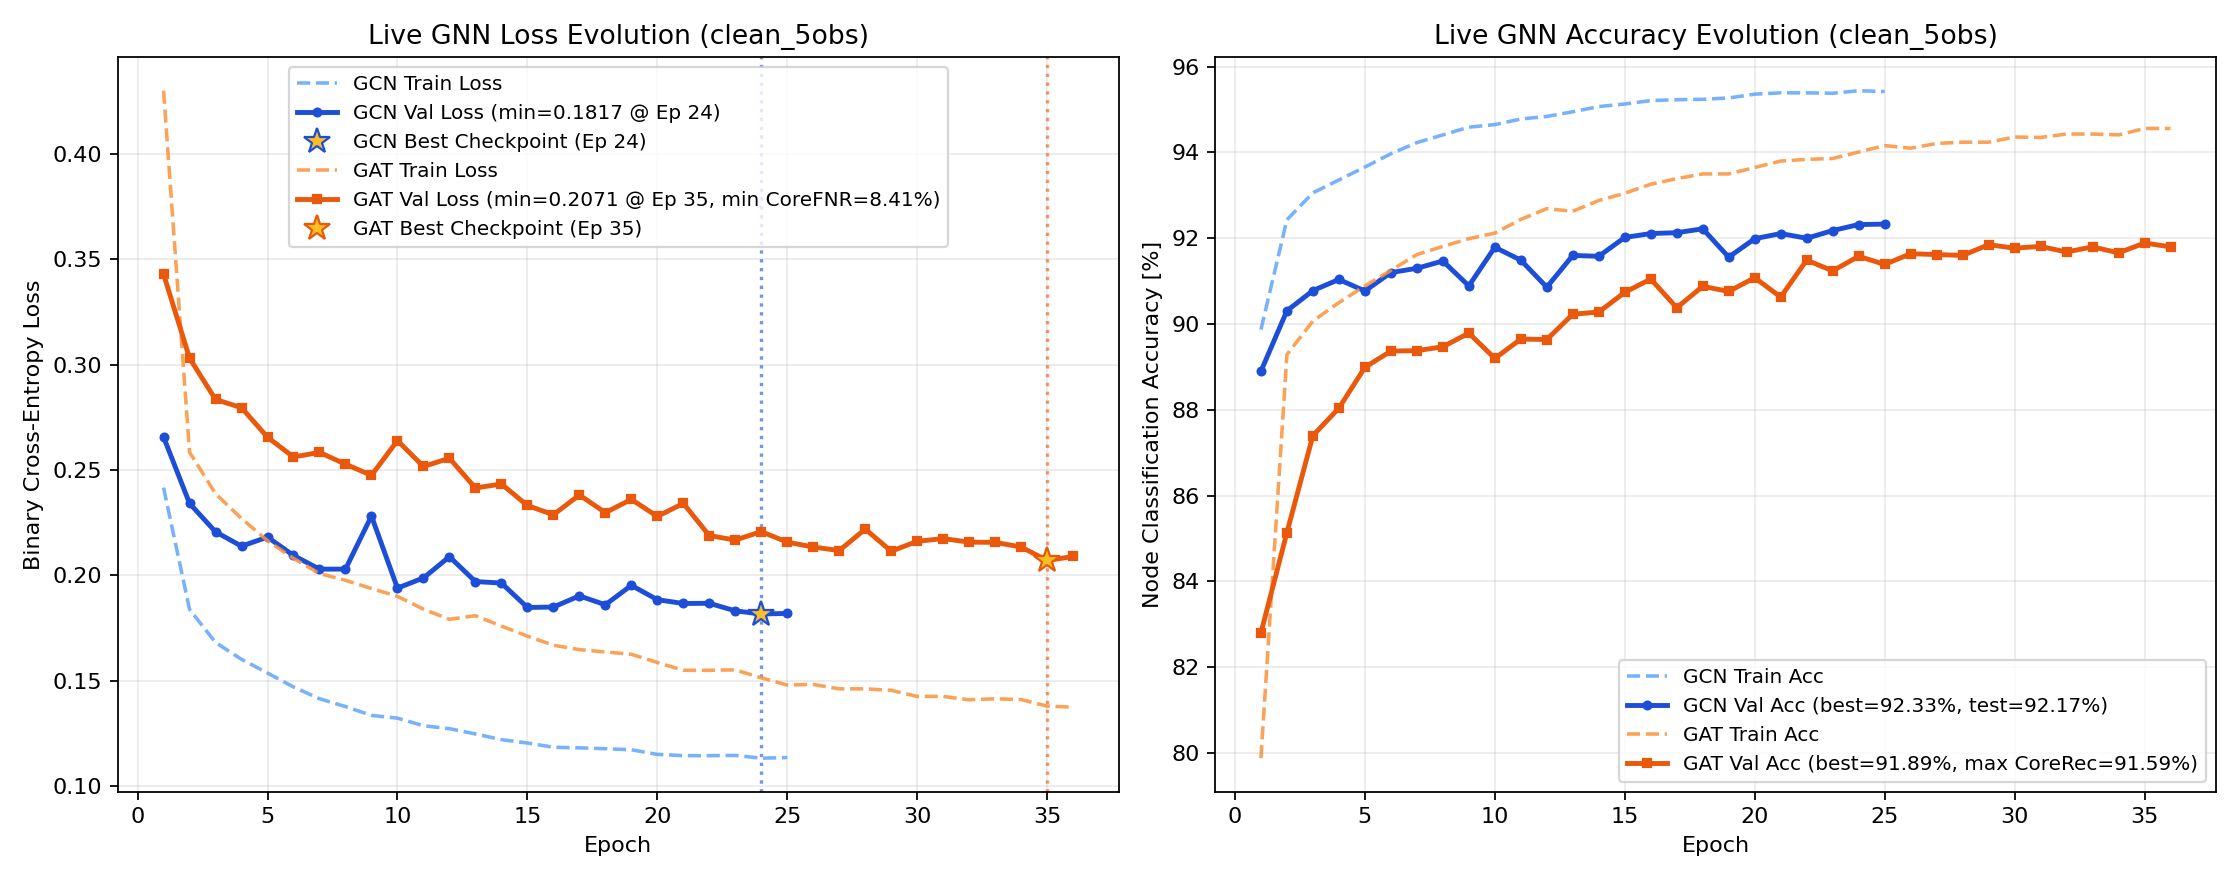
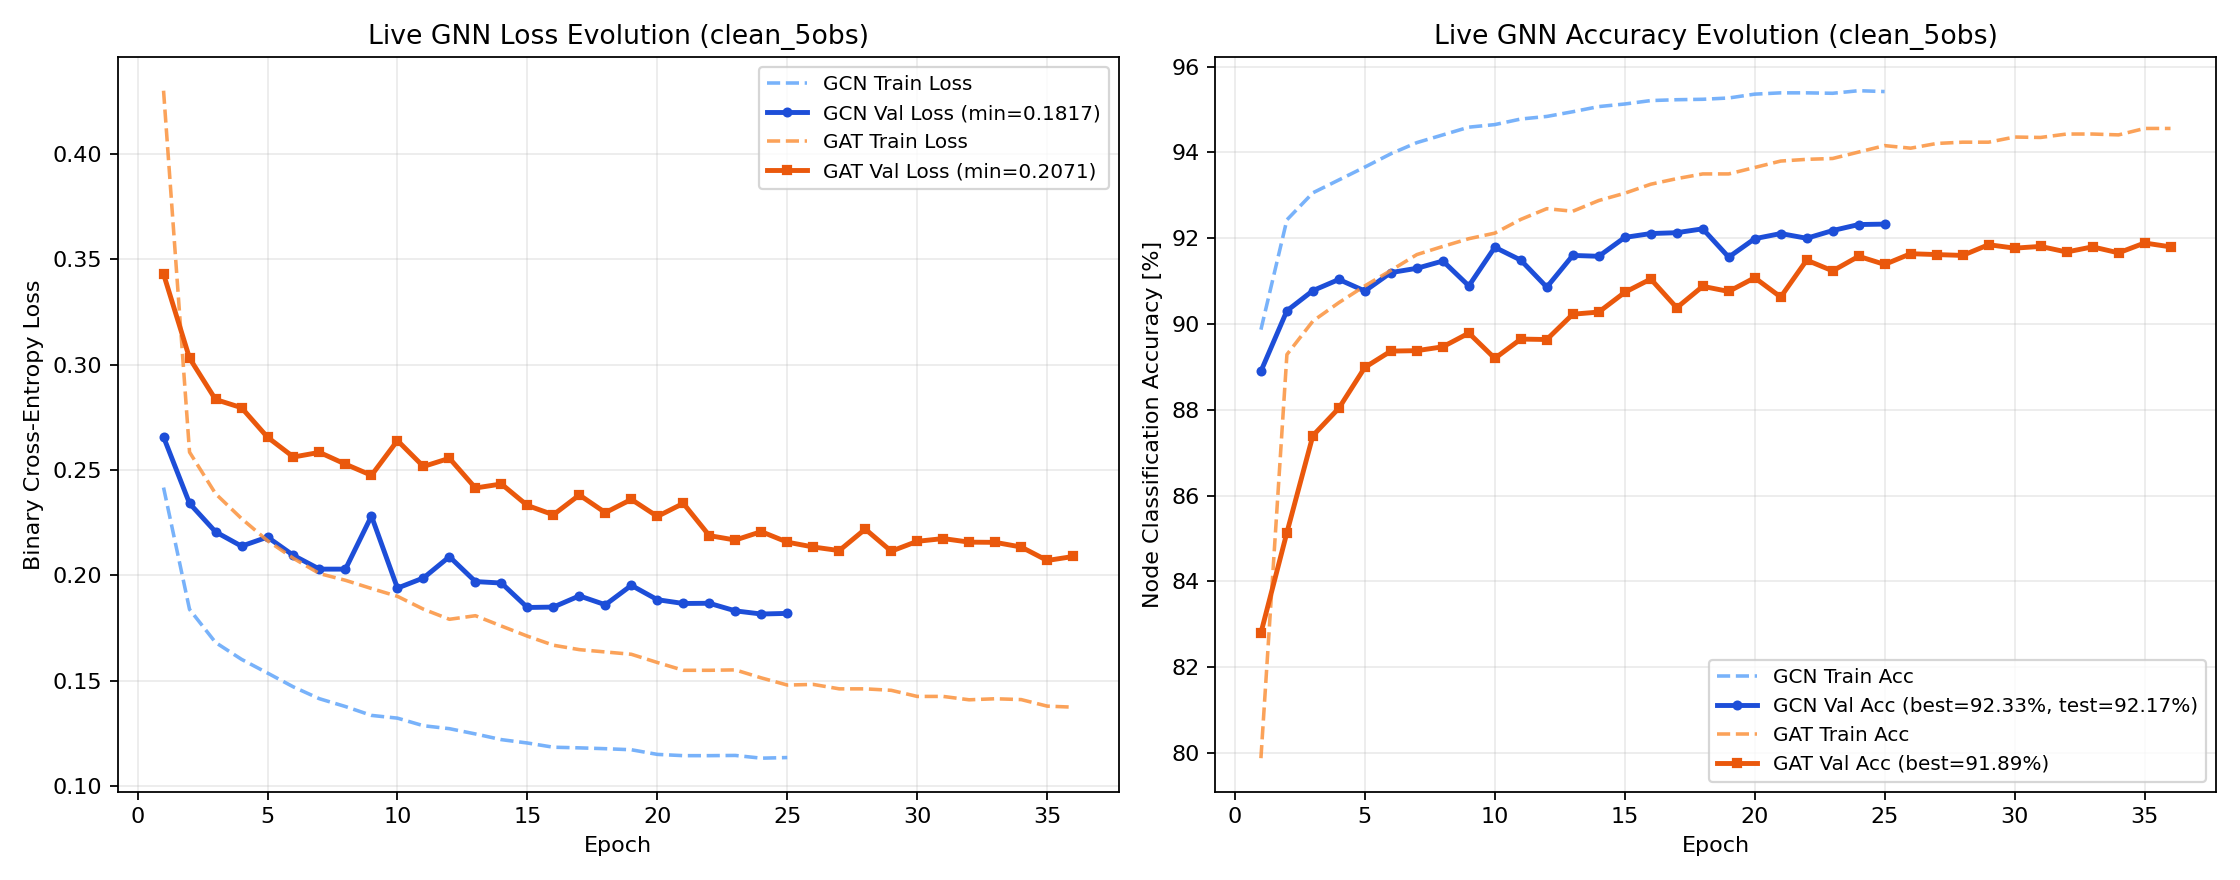
Update Study 2 live status and figures (2026-11-13 18:31)

diff --git a/LIVE_STATUS.md b/LIVE_STATUS.md
@@ -1,16 +1,15 @@
 # Live Pipeline Status on Jed
 
 ```text
-[2026-11-13 18:26:05] Study 2 Pipeline Status on Jed
+[2026-11-13 18:31:17] Study 2 Pipeline Status on Jed
 - Step 1 (Plummer ICs): 81 / 81 ready
 - Step 2 (SWIFT Runs): 81 / 81 completed (101 snapshots)
 - Step 3 (Observables): Labels=81/81 | Clean=81/81 | GaiaNoisy=81/81
 - Step 4 (5D Graphs): Clean=81/81 | GaiaNoisy=81/81
 - Step 5/6 Live GNN Training Progress:
-  * clean_5obs/training_metrics_gat_clean.log: Ep 036 | Train 0.1375 (94.56%) | Val 0.2090 (91.80%, Best=91.89%) | CoreFNR: 12.58% (min=8.41%) | Test=In progress
+  * clean_5obs/training_metrics_gat_clean.log: Ep 036 | Train 0.1375 (94.56%) | Val 0.2090 (91.80%, Best=91.89%) | Test=In progress
   * clean_5obs/training_metrics_gcn_clean.log: Ep 025 | Train 0.1136 (95.42%) | Val 0.1820 (92.33%, Best=92.33%) | Test=92.17%
   * legacy/clean_5obs_static_5rot/training_metrics_gcn_clean.log: Ep 025 | Train 0.1136 (95.42%) | Val 0.1820 (92.33%, Best=92.33%) | Test=92.17%
-- Saved Model Checkpoints (.pth): 8 mirrored in GNN-jed/trained_models/study2/weights/
 
 SLURM Queue:
 JOBID  PARTITION                   NAME   ST       TIME  NODES NODELIST(REASON)
@@ -20,29 +19,16 @@ JOBID  PARTITION                   NAME   ST       TIME  NODES NODELIST(REASON)
 41146835_[0-4%   academic      Study2_Step6_4Obs   PD       0:00      2 (Dependency)
       41185010   academic Study2V2_Step4_BuildGr   PD       0:00      1 (Dependency)
 41185009_[0-80   academic Study2V2_Step3_Extract   PD       0:00      1 (Dependency)
-      41146834   academic   Study2_Step5_Train81    R 1-03:41:46      2 jst[317,320]
+      41146834   academic   Study2_Step5_Train81    R 1-03:45:03      2 jst[317,320]
 ```
 
 ## Live Neural Network Training Metrics
 
-| Experiment | Architecture | Latest Epoch | Train Loss | Train Acc | Val Loss | Val Acc | Best Val Acc | Core FNR | Test Acc | Test F1 |
-| :--- | :---: | :---: | :---: | :---: | :---: | :---: | :---: | :---: | :---: | :---: |
-| `clean_5obs` | **GAT** | 36 | 0.1375 | 94.56% | 0.2090 | 91.80% | **91.89%** | 8.41% (val min) | **In progress** | - |
-| `clean_5obs` | **GCN** | 25 | 0.1136 | 95.42% | 0.1820 | 92.33% | **92.33%** | - | **92.17%** | 0.8886 |
-| `clean_5obs_static_5rot` | **GCN** | 25 | 0.1136 | 95.42% | 0.1820 | 92.33% | **92.33%** | - | **92.17%** | 0.8886 |
-
-## Saved Model Weights (`.pth` Checkpoints)
-
-| Checkpoint | Size | Experiment Path | Central Archive Mirror |
-| :--- | :---: | :--- | :--- |
-| `best_gat_clean.pth` | 361.2 KB | `GNN-jed/trained_models/study2/clean_5obs/best_gat_clean.pth` | `GNN-jed/trained_models/study2/weights/best_gat_clean.pth` |
-| `best_gat_clean_ep18_backup.pth` | 361.2 KB | `GNN-jed/trained_models/study2/clean_5obs/best_gat_clean_ep18_backup.pth` | `GNN-jed/trained_models/study2/weights/best_gat_clean_ep18_backup.pth` |
-| `best_gcn_clean.pth` | 120.0 KB | `GNN-jed/trained_models/study2/clean_5obs/best_gcn_clean.pth` | `GNN-jed/trained_models/study2/weights/best_gcn_clean.pth` |
-| `best_gat_clean_ep18_backup.pth` | 361.2 KB | `GNN-jed/trained_models/study2/legacy/clean_5obs_static_5rot/best_gat_clean_ep18_backup.pth` | `GNN-jed/trained_models/study2/weights/best_gat_clean_ep18_backup.pth` |
-| `best_gcn_clean.pth` | 120.0 KB | `GNN-jed/trained_models/study2/legacy/clean_5obs_static_5rot/best_gcn_clean.pth` | `GNN-jed/trained_models/study2/weights/best_gcn_clean.pth` |
-| `best_gat_clean.pth` | 361.2 KB | `GNN-jed/trained_models/study2/legacy/weights/best_gat_clean.pth` | `GNN-jed/trained_models/study2/weights/best_gat_clean.pth` |
-| `best_gat_clean_ep18_backup.pth` | 361.2 KB | `GNN-jed/trained_models/study2/legacy/weights/best_gat_clean_ep18_backup.pth` | `GNN-jed/trained_models/study2/weights/best_gat_clean_ep18_backup.pth` |
-| `best_gcn_clean.pth` | 120.0 KB | `GNN-jed/trained_models/study2/legacy/weights/best_gcn_clean.pth` | `GNN-jed/trained_models/study2/weights/best_gcn_clean.pth` |
+| Experiment | Architecture | Latest Epoch | Train Loss | Train Acc | Val Loss | Val Acc | Best Val Acc | Test Acc | Test F1 |
+| :--- | :---: | :---: | :---: | :---: | :---: | :---: | :---: | :---: | :---: |
+| `clean_5obs` | **GAT** | 36 | 0.1375 | 94.56% | 0.2090 | 91.80% | **91.89%** | **In progress** | - |
+| `clean_5obs` | **GCN** | 25 | 0.1136 | 95.42% | 0.1820 | 92.33% | **92.33%** | **92.17%** | 0.8886 |
+| `clean_5obs_static_5rot` | **GCN** | 25 | 0.1136 | 95.42% | 0.1820 | 92.33% | **92.33%** | **92.17%** | 0.8886 |
 
 ## Real-Time GNN Learning Curves (Loss & Accuracy Evolution)
 
